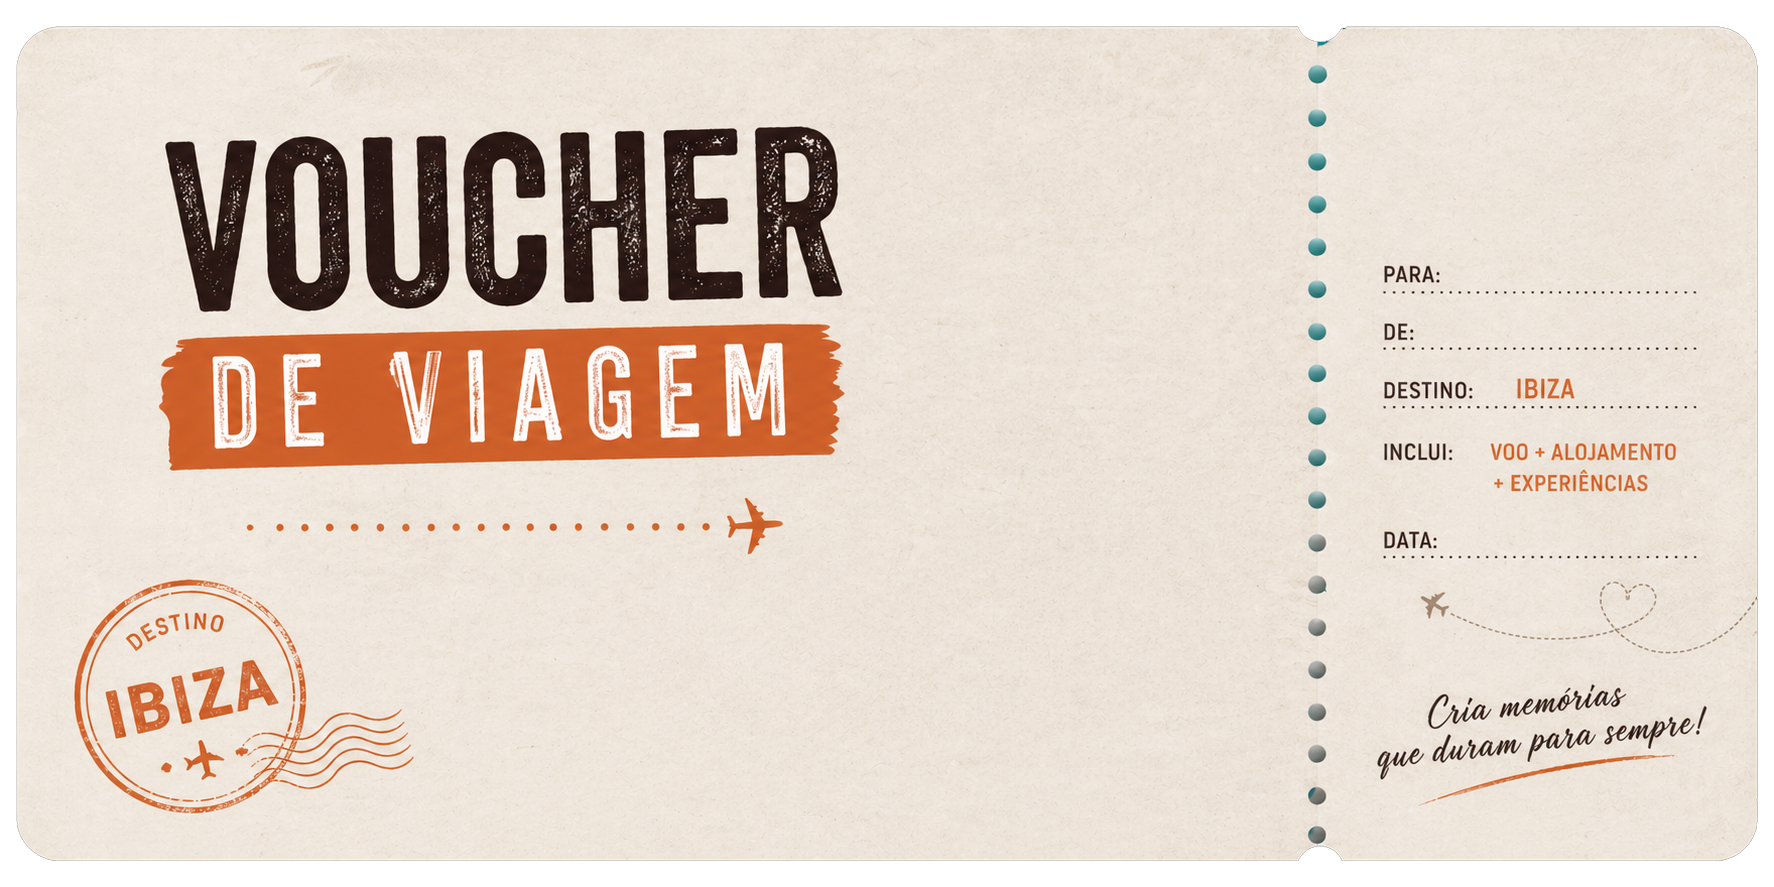
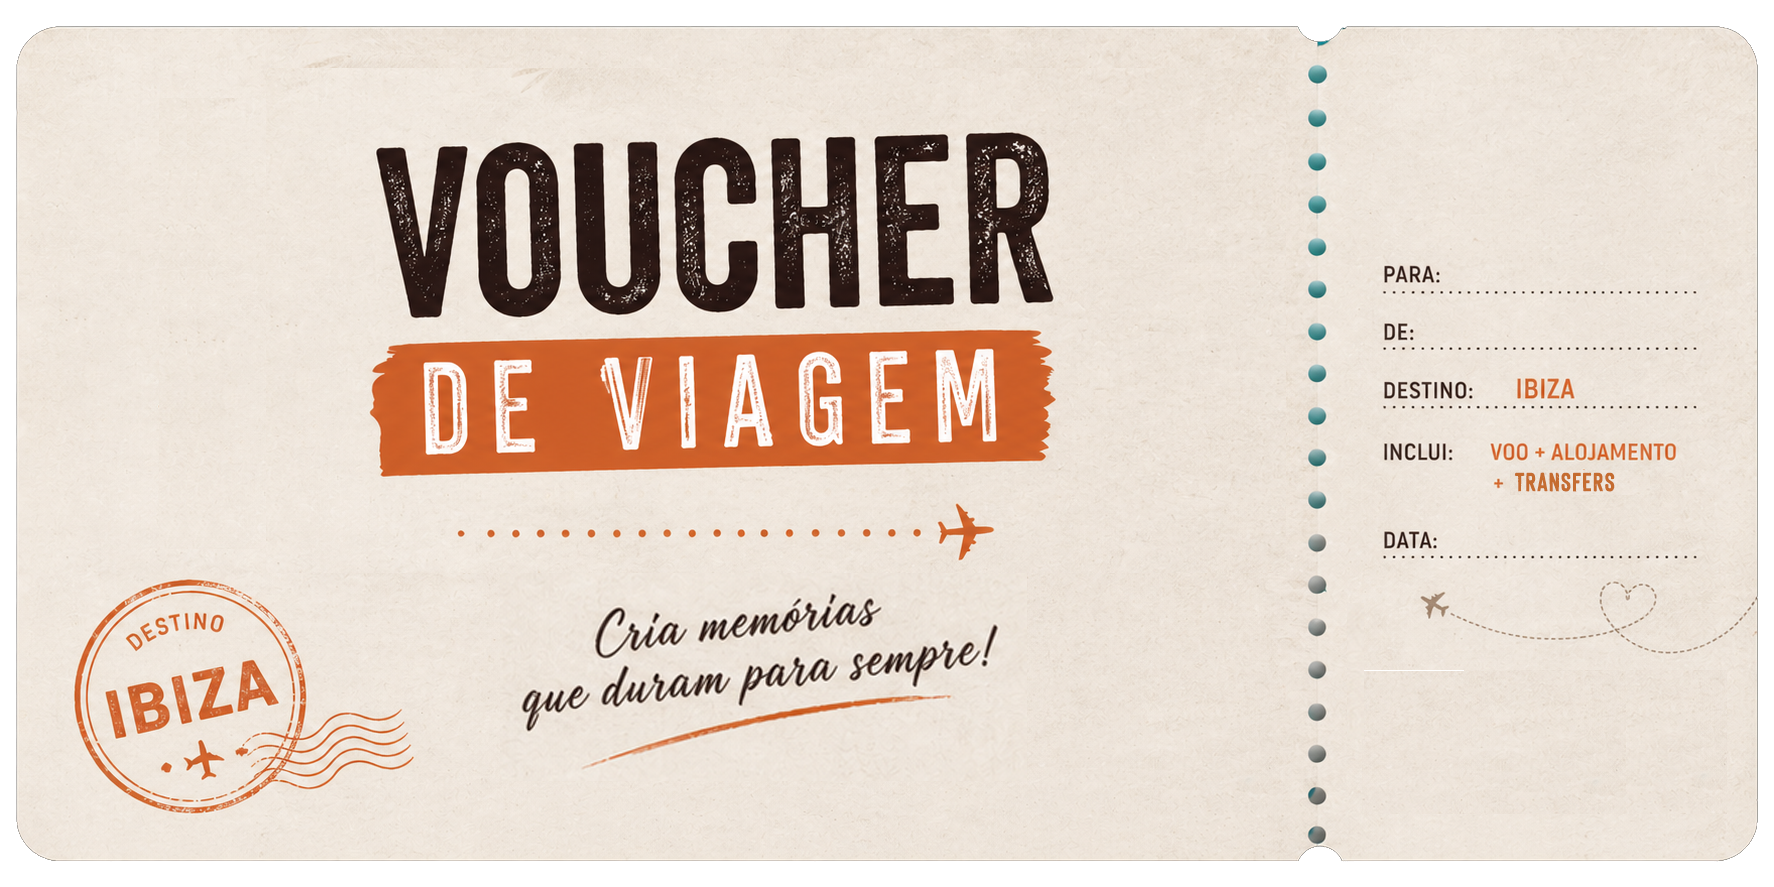
msg

diff --git a/app/page.tsx b/app/page.tsx
@@ -17,6 +17,7 @@ export default function GoChillLandingPage() {
   })
   const [uploadedTalon, setUploadedTalon] = useState<File | null>(null)
   const [uploadedFoto, setUploadedFoto] = useState<File | null>(null)
+  const [talonError, setTalonError] = useState("")
   const [aceiteRegulamento, setAceiteRegulamento] = useState(false)
   const [aceiteMaior18, setAceiteMaior18] = useState(false)
   const [aceiteMarketing, setAceiteMarketing] = useState(false)
@@ -25,9 +26,42 @@ export default function GoChillLandingPage() {
   const fileInputRefTalon = useRef<HTMLInputElement>(null)
   const fileInputRefFoto = useRef<HTMLInputElement>(null)
 
-  const handleFileChangeTalon = (e: React.ChangeEvent<HTMLInputElement>) => {
+  const isValidReceiptImage = (file: File) =>
+    new Promise<boolean>((resolve) => {
+      const imageUrl = URL.createObjectURL(file)
+      const previewImage = new window.Image()
+
+      previewImage.onload = () => {
+        const isReceiptShape = previewImage.height >= previewImage.width * 1.15
+        URL.revokeObjectURL(imageUrl)
+        resolve(isReceiptShape)
+      }
+
+      previewImage.onerror = () => {
+        URL.revokeObjectURL(imageUrl)
+        resolve(false)
+      }
+
+      previewImage.src = imageUrl
+    })
+
+  const handleFileChangeTalon = async (e: React.ChangeEvent<HTMLInputElement>) => {
     if (e.target.files && e.target.files[0]) {
-      setUploadedTalon(e.target.files[0])
+      const selectedFile = e.target.files[0]
+
+      if (selectedFile.type.startsWith("image/")) {
+        const isReceiptImage = await isValidReceiptImage(selectedFile)
+
+        if (!isReceiptImage) {
+          setUploadedTalon(null)
+          setTalonError("Ups! Parece que a imagem enviada não corresponde a um talão de compra.\nEnvia uma foto nítida do talão de compra.")
+          e.target.value = ""
+          return
+        }
+      }
+
+      setTalonError("")
+      setUploadedTalon(selectedFile)
     }
   }
 
@@ -52,7 +86,7 @@ export default function GoChillLandingPage() {
       {/* Hero Section */}
       <section className="relative w-full">
         {/* Background Image Container */}
-        <div className="relative w-full min-h-[700px] md:min-h-[750px] lg:min-h-[800px]">
+        <div className="relative w-full min-h-[600px] md:min-h-[750px] lg:min-h-[800px]">
           <Image
             src="https://hebbkx1anhila5yf.public.blob.vercel-storage.com/fundo.png-UBuXA9yYXpWUZOy8mmJO1dueZ2eHLY.jpeg"
             alt="Fundo tropical"
@@ -64,7 +98,7 @@ export default function GoChillLandingPage() {
           {/* Hero Content Layer */}
           <div className="absolute inset-0 z-30">
             <div className="container mx-auto px-4 h-full">
-              <div className="flex flex-col lg:flex-row h-full items-center justify-center gap-8 md:gap-12 lg:gap-16 pt-4 md:pt-8 lg:pt-4 pb-12 md:pb-16 px-2 md:px-4">
+              <div className="flex flex-col lg:flex-row h-full items-center justify-start md:justify-center gap-0 md:gap-12 lg:gap-16 pt-4 md:pt-8 lg:pt-4 pb-6 md:pb-16 px-2 md:px-4">
                 
                 {/* LEFT Column - Go Chill Logo + Leva-te a Ibiza */}
                 <div className="flex flex-col items-center justify-center">
@@ -81,7 +115,7 @@ export default function GoChillLandingPage() {
                       alt="Avião"
                       width={320}
                       height={160}
-                      className="w-32 md:w-48 lg:w-60 drop-shadow-xl mb-2 animate-airplane"
+                      className="w-32 translate-y-2 md:w-48 md:translate-y-0 lg:w-60 drop-shadow-xl mb-2 animate-airplane"
                     />
                     <Image
                       src="/images/frase.png"
@@ -107,29 +141,29 @@ export default function GoChillLandingPage() {
                     alt="10.000€"
                     width={300}
                     height={100}
-                    className="w-28 md:w-40 lg:w-52 mb-2 md:mb-4 animate-fade-in-up animation-delay-500"
+                    className="w-28 translate-y-2 md:w-40 md:translate-y-0 lg:w-52 mb-2 md:mb-4 animate-fade-in-up animation-delay-500"
                   />
                   <Image
                     src="https://hebbkx1anhila5yf.public.blob.vercel-storage.com/titulo-mNQdTWfiTV1Ff452lf2di82hjfMu77.png"
                     alt="Na compra de 2 Go Chill"
                     width={240}
                     height={90}
-                    className="w-32 md:w-44 lg:w-52 mb-2 md:mb-4 animate-slide-in-right animation-delay-200"
+                    className="w-32 translate-y-2 md:w-44 md:translate-y-0 lg:w-52 mb-2 md:mb-4 animate-slide-in-right animation-delay-200"
                   />
-                  <div className="flex items-end justify-center mb-4 animate-scale-in animation-delay-400">
+                  <div className="flex items-end justify-center mb-0 translate-y-16 md:mb-4 md:translate-y-0 animate-scale-in animation-delay-400">
                     <Image
-                      src="https://hebbkx1anhila5yf.public.blob.vercel-storage.com/copo2-8YEwatomsqIqiDtDcE4I2EAY1bepm2.png"
+                      src="/images/copo2.png"
                       alt="Go Chill Cappuccino"
                       width={200}
                       height={300}
-                      className="w-24 md:w-36 lg:w-44 drop-shadow-2xl"
+                      className="h-52 w-auto md:h-auto md:w-36 lg:w-44 drop-shadow-2xl"
                     />
                     <Image
-                      src="https://hebbkx1anhila5yf.public.blob.vercel-storage.com/copo1-oSbXkA337V5BOqhwA3HN7ZsHvLKZhI.png"
+                      src="/images/copo1.png"
                       alt="Go Chill Choco Latte"
                       width={180}
                       height={280}
-                      className="w-24 md:w-36 lg:w-44 drop-shadow-2xl -ml-6 md:-ml-10"
+                      className="h-52 w-auto md:h-auto md:w-36 lg:w-44 drop-shadow-2xl -ml-6 md:-ml-10"
                     />
                   </div>
                 </div>
@@ -138,7 +172,7 @@ export default function GoChillLandingPage() {
           </div>
 
           {/* Wave at the very bottom - behind content (z-10) */}
-          <div className="absolute bottom-0 left-0 right-0 z-10 translate-y-1">
+          <div className="absolute bottom-0 left-0 right-0 z-10 translate-y-0 md:translate-y-1">
             <Image
               src="https://hebbkx1anhila5yf.public.blob.vercel-storage.com/onda-yUxoghgNh6sXa09p0nLGN5sspYpoRy.png"
               alt=""
@@ -165,10 +199,10 @@ export default function GoChillLandingPage() {
           <div className="grid grid-cols-1 lg:grid-cols-2 gap-6 lg:gap-8 max-w-6xl mx-auto">
             <Card className="border-0 bg-white/90 shadow-2xl backdrop-blur-sm">
               <CardContent className="p-6 md:p-8">
-                <p className="text-sm font-bold tracking-[0.2em] text-[#c73d3d] mb-3">
+                <p className="text-center text-lg md:text-2xl lg:text-3xl font-bold text-[#c73d3d] mb-3">
                   PRÉMIOS SEMANAIS
                 </p>
-                <h3 className="text-2xl md:text-3xl font-bold text-[#3d2314] mb-3">
+                <h3 className="text-center text-2xl md:text-3xl font-bold text-[#3d2314] mb-3">
                   As 7 fotos mais criativas da semana ganham prémios
                 </h3>
                 <div className="grid grid-cols-3 gap-3 md:gap-4 mb-6 items-end">
@@ -201,7 +235,7 @@ export default function GoChillLandingPage() {
                   </div>
                 </div>
                 <ul className="space-y-3 text-[#5a4a40] text-sm md:text-base leading-relaxed">
-                  <li><span className="font-bold text-[#3d2314]">1º Classificado:</span> Câmara instantânea FUJIFILM Instax Mini</li>
+                  <li><span className="font-bold text-[#3d2314]">1º Classificado:</span> Câmara FUJIFILM Instax Mini</li>
                   <li><span className="font-bold text-[#3d2314]">2.º e 3.º Classificado:</span> Calções de banho DCK</li>
                   <li><span className="font-bold text-[#3d2314]">4.º a 7.º Classificado:</span> Toalhas de Praia Go Chill</li>
                 </ul>
@@ -210,16 +244,16 @@ export default function GoChillLandingPage() {
 
             <div className="py-2 md:py-4">
               <div className="p-6 md:p-8">
-                <p className="text-sm font-bold tracking-[0.2em] text-[#c73d3d] mb-3">
+                <p className="mb-3 block w-full text-center text-2xl md:text-4xl lg:text-5xl font-bold text-[#c73d3d]">
                   PRÉMIO FINAL
                 </p>
-                <h3 className="text-2xl md:text-3xl font-bold text-[#3d2314] mb-3">
+                <h3 className="text-center text-2xl md:text-3xl font-bold text-[#3d2314] mb-3">
                   Voucher de viagem para Ibiza
                 </h3>
-                <p className="text-[#5a4a40] mb-6 text-sm md:text-base">
+                <p className="text-center text-[#5a4a40] mb-6 text-sm md:text-base">
                   A foto mais original de todas leva-te numa viagem a Ibiza para 4 amigos.
                 </p>
-                <div className="overflow-hidden">
+                <div className="flex justify-center">
                   <Image
                     src="/images/voucher.png"
                     alt="Voucher de viagem para Ibiza"
@@ -248,9 +282,9 @@ export default function GoChillLandingPage() {
         <div className="container relative z-10 mx-auto px-4">
           <div className="max-w-2xl mx-auto">
               {submitted ? (
-                <Card className="bg-gradient-to-br from-[#3d2314] to-[#5a3a2a] border-0 shadow-2xl">
+                <Card className="bg-gradient-to-br from-[#5f8f4c] to-[#2f5d3a] border-0 shadow-2xl">
                   <CardContent className="p-8 text-center text-white">
-                    <div className="inline-flex items-center justify-center w-20 h-20 bg-white/20 rounded-full mb-6">
+                    <div className="inline-flex items-center justify-center w-20 h-20 bg-white/15 rounded-full mb-6">
                       <Award className="w-10 h-10" />
                     </div>
                     <h3 className="text-2xl font-bold mb-3">Participação Registada!</h3>
@@ -334,6 +368,8 @@ export default function GoChillLandingPage() {
                           className={`border-2 border-dashed rounded-lg p-6 text-center cursor-pointer transition-colors ${
                             uploadedTalon 
                               ? 'border-green-500 bg-green-50' 
+                              : talonError
+                                ? 'border-red-400 bg-red-50 hover:border-red-500'
                               : 'border-[#d4c4b0] hover:border-[#f47920] hover:bg-[#fff8f0]'
                           }`}
                         >
@@ -353,10 +389,11 @@ export default function GoChillLandingPage() {
                                 <Upload className="w-6 h-6 text-[#f47920]" />
                               </div>
                               <p className="text-[#3d2314] font-medium">Clica para carregar o talão</p>
-                              <p className="text-xs text-[#8b7355]">Formatos aceites: JPG, PNG, PDF</p>
+                              <p className="text-xs text-[#8b7355]">Formatos aceites: JPG, PNG, PDF. As imagens devem estar em formato vertical de talão.</p>
                             </div>
                           )}
                         </div>
+                        {talonError ? <p className="whitespace-pre-line text-sm text-red-600">{talonError}</p> : null}
                       </div>
 
                       {/* File Upload - Fotografia */}
@@ -478,7 +515,7 @@ export default function GoChillLandingPage() {
                 Contacto de Apoio:
               </p>
               <p className="text-white/80 text-sm">
-                ibizagochill@tpower.pt
+                ibiza.gochill@tpower.pt
               </p>
             </div>
             <p className="text-white/50 text-xs text-center">
@@ -517,7 +554,7 @@ function StepsSection() {
   }, [])
 
   return (
-    <section ref={ref} className="py-12 md:py-16 bg-white -mt-16 md:-mt-28 lg:-mt-40 relative z-20">
+    <section ref={ref} className="py-12 md:py-16 bg-white md:-mt-28 lg:-mt-40 relative z-20">
       <div className="container mx-auto px-4">
         <h2 className="text-2xl md:text-3xl lg:text-4xl font-bold text-center text-[#3d2314] mb-10 md:mb-12">
           Como Participar?
